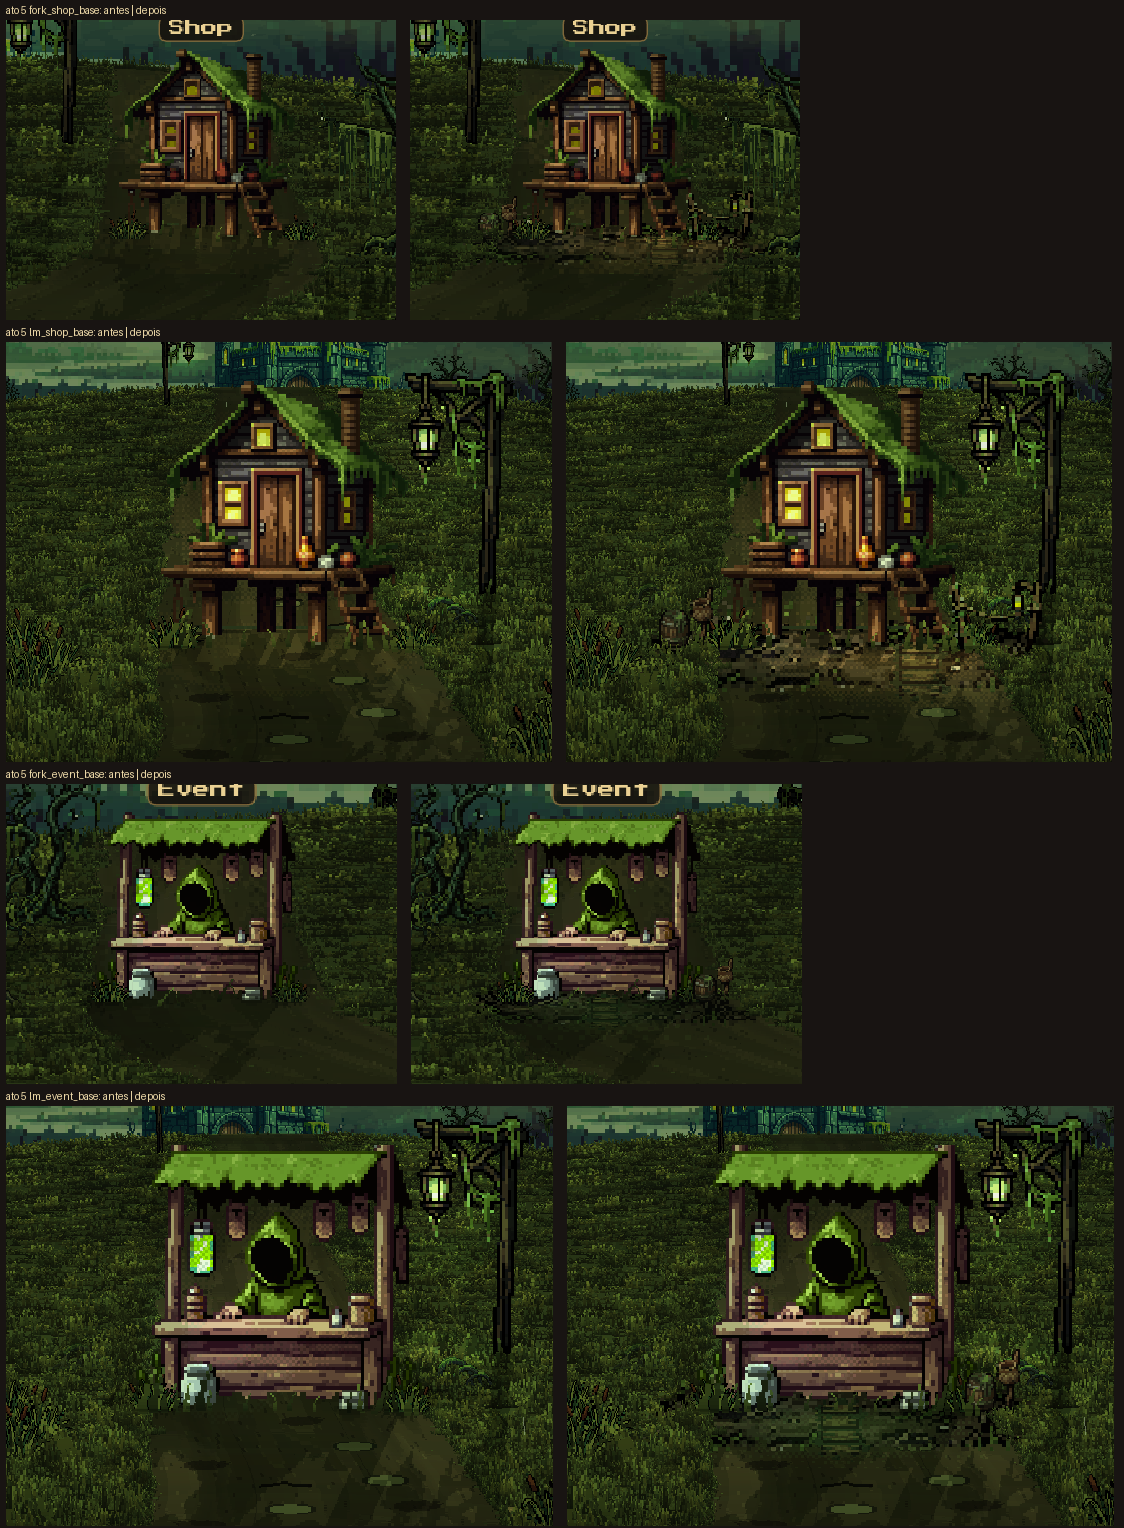
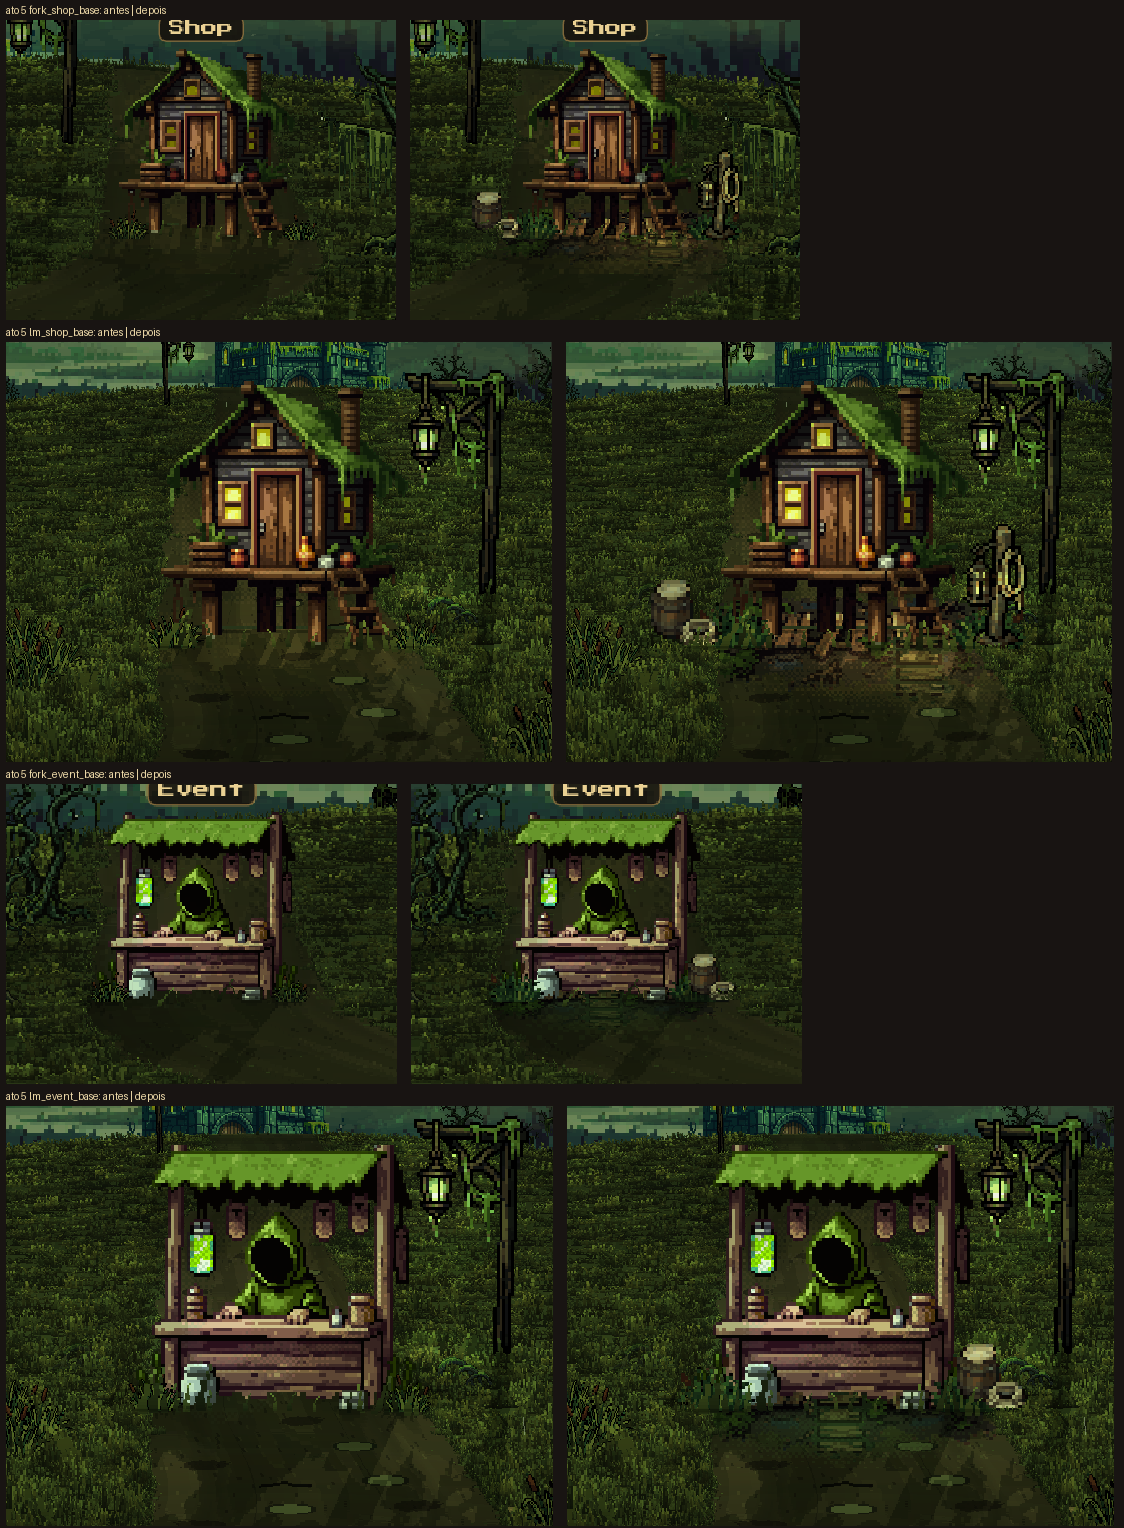
Base da loja: clareira na grama, pixel da casa, pântano e abismo refeitos
Revisão do lead sobre a base da loja e do evento:
- GrassField ganha requireClearing: a pegada abre uma clareira com borda
  serrilhada (fileira, preenchimento, lâminas, franja e ilhas), a grama só cobre
  a borda de fora. Entra na assinatura de cache da fatia.
- Pegada, caminho, vegetação e adereços na mesma escala da casa (1 px de arte =
  1 px de arte do marco); vegetação dos atos 2 a 6 é o arbusto do bioma reduzido
  com a paleta original.
- Ato 5: tábuas largas com poças, barril de borda clara com corda, estaca com
  lanterna. Ato 3: rocha quente com rachaduras acesas, baú com braseiro, cerca de
  estacas em brasa, tom clareado e brasas nas pontas da pegada.
- Ato 4: cerca da direita mais perto da casa, longe do pé do poste.
- test_loja_base também falha com base sem clareira.
PixelLab create_image_pro, 6 gerações novas (loja do bioma como referência).

diff --git a/tools/pixellab_loja_base.py b/tools/pixellab_loja_base.py
@@ -82,6 +82,27 @@ for bid, (ref, light, world, pad, path, propA, propB, veg) in B.items():
     SPECS[bid + "_veg"] = (ref, 40, 28, light,
         "a small vegetation clump of " + world + ": " + veg + ", low and wider than tall, it grows "
         "against the corner of a building." + PROP)
+SPECS["ma_pad2"] = ("marsh_landmark_shop.png", 112, 36, "moon_r",
+    "the yard of a stilt hut in a haunted swamp: a small boardwalk platform of a few wide wet wooden "
+    "planks laid side by side on dark mud, the planks have a pale moonlit top edge, around it three or "
+    "four dark water puddles each with a thin pale rim highlight, a few large flat mossy patches. Few, "
+    "large, clean shapes, calm and readable, no noise, no speckle." + FLAT)
+SPECS["ma_propc"] = ("marsh_landmark_shop.png", 24, 40, "moon_r",
+    "a single wooden stake pushed into the mud with a small iron lantern hanging from a hook at its top, "
+    "the lantern glass glows warm yellow, a coil of pale rope hangs on the stake." + PROP)
+SPECS["ma_propd"] = ("marsh_landmark_shop.png", 40, 28, "moon_r",
+    "a small wooden barrel with a pale weathered top rim and pale iron hoops, next to it a coil of thick "
+    "pale hemp rope lying on the ground." + PROP)
+SPECS["ab_pad2"] = ("abyss_landmark_shop.png", 120, 36, "lava_r",
+    "the yard of a shop in a scorched volcanic wasteland: warm dark red-brown baked rock ground with "
+    "patches of pale grey ash, several thin glowing orange and yellow cracks running through it, a few "
+    "glowing ember coals scattered near the ragged edge, warm and readable, not black." + FLAT)
+SPECS["ab_propc"] = ("abyss_landmark_shop.png", 40, 30, "lava_r",
+    "an iron-bound wooden chest with warm red-brown wood and bright copper corners, a small iron brazier "
+    "next to it with glowing orange coals that light the chest." + PROP)
+SPECS["ab_propd"] = ("abyss_landmark_shop.png", 44, 30, "lava_r",
+    "a short fence of two charred wooden stakes with glowing ember tips joined by a rusty orange chain, "
+    "a small wooden sign with a red painted mark hangs from the chain." + PROP)
 L.SPECS = SPECS
 
 def queue(names, tag):

diff --git a/tools/loja_base_install.py b/tools/loja_base_install.py
@@ -46,9 +46,40 @@ def flat(im, seed):
     return im
 
 
+WORLD = os.path.join(ROOT, "assets/sprites/world")
+
+
+def down(src, width):
+    path = os.path.join(RAW, src[4:] + ".png") if src.startswith("raw/") else os.path.join(WORLD, src + ".png")
+    im = hard(Image.open(path).convert("RGBA"))
+    bb = im.getbbox()
+    im = im.crop(bb)
+    k = width / im.width
+    h = max(1, round(im.height * k))
+    pal = sorted({c[:3] for c in im.get_flattened_data() if c[3] >= 128})
+    small = im.resize((width, h), Image.BOX)
+    px = small.load()
+    for y in range(h):
+        for x in range(width):
+            r, g, b, a = px[x, y]
+            if a < 110:
+                px[x, y] = (0, 0, 0, 0)
+                continue
+            ur, ug, ub = r * 255 / max(a, 1), g * 255 / max(a, 1), b * 255 / max(a, 1)
+            best = min(pal, key=lambda c: (c[0] - ur) ** 2 + (c[1] - ug) ** 2 + (c[2] - ub) ** 2)
+            px[x, y] = best + (255,)
+    return small
+
+
 def install(picks):
     os.makedirs(DEST, exist_ok=True)
     for name, src in sorted(picks.items()):
+        if src.startswith("down:"):
+            _, wsrc, wpx = src.split(":")
+            im = down(wsrc, int(wpx))
+            im.save(os.path.join(DEST, name + ".png"))
+            print(f"[ok] {name} <- {src} {im.size}")
+            continue
         flip = src.endswith("!")
         src = src.rstrip("!")
         im = Image.open(os.path.join(RAW, src + ".png")).convert("RGBA")

diff --git a/memory/worldroad_scene.md b/memory/worldroad_scene.md
@@ -2476,3 +2476,4 @@ idênticos (427/453/444/467/475/418 por bioma), texmem +0.3 MB.
 **Estrada orgânica + grama miúda nos espaços estreitos (20/Out/2026, frente borda-estrada, dono no exe das 20:50: "ficou muito certinho, como se o caminho fosse feito por pessoa e ajustado todos os dias" e "em partes pequenas... temos que ter grama pequena também para preencher").** (1) Largura que varia: `WorldRoad.roadWidthK(z, lado)` (ruído de valor `WorldRoad.valueNoise`, sementes diferentes por lado = borda esquerda e direita assimétricas): vagueio ±0,15 da meia-largura em frequência baixa (`SHAPE.wanderF` 0,19 por unidade de z), baías de terra (até +0,13) e estreitamentos (até -0,16); teto de +0,12 para a terra nunca chegar no poste (poste em 1,08 da meia-largura geométrica, borda visível 0,88). Entra em `roadEdgeOff(z, t, lado, meia)` pelo 4º argumento, mesma fonte da pintura (por ramo, `half0 × forkArmK`) e da grama (`clear`). (2) Sulcos de roda desde t 0,18, com alpha 0,42, posição vagueando e trechos sem sulco. (3) Ilhas de grama na terra (`ISLAND` no `GrassField`: célula de z 0,9, 20 % × carpet por lado, 3 a 7 tufos de 4 a 16 % da meia-largura para dentro). (4) Grama miúda: atlas ganhou 3 células `fillQuads` (moita densa de lâminas curtas sem faixa de base); o tapete emite `FILL.n` 4 moitas miúdas (escala 0,66, z espalhado em ±meia fileira) por moita perto da borda (faixa `margin + 2,2 × espaçamento`) e em espaço ESTREITO (`gapWidth` entre dois ramos < 0,22 L); a cunha entre ramos deixa de mostrar chão escuro entre fileiras. Preencher o campo inteiro do fundo custava +1 a 2,5 ms por quadro e foi descartado. Trava `test_road_edge_rhythm` ganhou a cunha nos seis atos (renders com grama, sem grama e sem estrada via `roadEdgeOff` = -1e5, marcos sem landmark, só pixels de chão pela mediana da linha): cobertura ≥ 0,55 (frost × 0,45); main antigo 0,52/0,51/0,43/0,20/0,64/0,56, agora 0,71/0,69/0,58/0,27/0,85/0,76. Pior janela de fileira-faixa afrouxada para 0,55 (as ilhas cobrem linhas inteiras de propósito); média, alternância e ritmo continuam. Folhas `tools/preview_out/borda_estrada/v3/`.
 
 **BASE DA LOJA E DO EVENTO (20/Out/2026, frente loja-base, direção de arte do dono: "a casa está boa isoladamente, mas não possui uma base no mundo"):** cada loja e cada tenda de evento é um conjunto, desenhado por `src/ui/LandmarkBase.lua` (dados em `src/data/landmark_bases.lua`) na MESMA profundidade do marco, nos dois pontos (`drawForkPhysical` e `drawChosenLandmark` chamam `LMG.Base.under` antes da sombra do marco e `LMG.Base.over` logo depois do sprite; nenhum local novo no `WorldRoad.lua`). `under`: pegada de terreno do bioma (`assets/sprites/world/base/<bio>_pad.png`, cor pelo `SceneGrade` família `road`, achatada por `0,62 + 0,38 t`, frente 17 px de arte abaixo da base cobrindo a ponta da estrada) + caminho de acesso até a porta (`<bio>_path`, x da porta por chave em `door`; no pântano vai à escada, 0,78) + poça de luz quente pontilhada na frente da porta (mesmo `shaders/light_emit.glsl` e `LuminaireEngine.EMIT` dos postes, some de dia pelo `dayK`). `over`: tufos de vegetação nos cantos (empurrados para fora da porta; ato 1 gerado, os outros reusam `highlands_bush_0`, `abyss_bush_0`, `frost_drift_0`, `marsh_reeds_0`, `dusk_bush_0`, cor pela família `bush`) e dois adereços de borda (`propa` caixas/barril, `propb` cerca/placa; o evento só usa `propa`), tamanho por fração da altura do marco, base 1 px de arte abaixo da linha do marco (mais baixo, a grama da frente engole), com `ShadowEngine.sprite` + `mask` e `Contact.queue`. Tudo segue `px, py, s, alpha` do marco: cresce no `animIn`, converge, chega e esmaece no `PASS_FADE` com ele. Arte: PixelLab `create_image_pro`, PNG da loja do bioma como referência (`tools/pixellab_loja_base.py queue|fill|poll|process|sheet`, um `fill` por vez: dois ao mesmo tempo sobrescrevem o `jobs.json`; o caminho só deu certo na segunda leva "reto, vertical, tábuas horizontais", a primeira saiu diagonal como palete; vegetação com a casa de referência vazou parede e foi trocada pelos arbustos do bioma); `tools/loja_base_install.py` tira o contorno escuro e pontilha a borda dos decalques e grava `tools/preview_out/loja_base/escolhas.json`. Trava `love . test_one test_loja_base` (base sempre desenhada com o marco na encruzilhada, na chegada e na partida, seis atos; nunca encostando em rótulo). Provas `tools/preview_out/loja_base/ato<N>_antes_depois.png` e `ato1_sequencia.png`; captura `lovec . test_one screenshot_loja_base <ato>[:shop|:event]` (`LOJA_SEQ=1` grava a sequência). Limite: ato 5 (pântano) e ato 3 (abismo) ficam escuros, a pegada lê como chão pontilhado e os adereços quase somem na grama alta e na luz baixa.
+**Base da loja, segunda rodada (20/Out/2026, revisão do lead):** (1) clareira na grama: `GrassField.requireClearing(relLo, relHi, x, meiaLargura, rim)` (zerada no `beginFrame`, entra na assinatura de cache da fatia) tira tufo de fileira, preenchimento, lâminas, franja e ilhas dentro de uma meia-elipse por profundidade com borda serrilhada por hash; `LandmarkBase` pede a clareira do pé do marco até a frente da pegada (0,80 da meia-largura da pegada, × alpha), então a grama só cobre a borda de fora. (2) Densidade de pixel: pegada, caminho, vegetação e adereços agora usam a MESMA escala `s` do marco (1 px de arte = 1 px de arte da casa); a vegetação dos atos 2 a 6 é o arbusto do bioma reduzido no instalador (`down:<png>:<largura>`, caixa + paleta original). (3) Ato 5: pegada de tábuas largas com poças (`ma_pad2_c__1`), barril de borda clara com corda e estaca com lanterna. (4) Ato 3: pegada de rocha quente com rachaduras acesas (`ab_pad2_c__0`), baú com braseiro e cerca de estacas em brasa, `tint.ab` clareia pegada/caminho/adereços, brasas nas duas pontas da pegada (`embers.ab`, fora em `reducedMotion`). (5) Ato 4: cerca da direita em 0,47 (`props.frost_landmark_shop`), longe do pé do poste; na encruzilhada os vizinhos ficam do outro lado da estrada. Trava `test_loja_base` também falha com base sem clareira.
